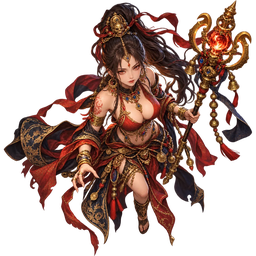
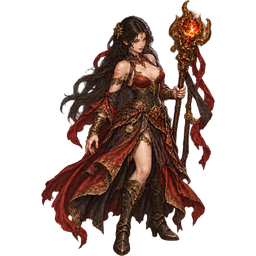
ソーサレスの通常と詠唱絵を現行の画風に統一

diff --git a/docs/reviews/2026-10-06-codex-sorceress-art.md b/docs/reviews/2026-10-06-codex-sorceress-art.md
@@ -1,0 +1,22 @@
+# ソーサレスの絵の描き直し
+
+依頼：元の方向性は維持し、現行クラスの画風とサイズ感に揃える。
+
+## 変更
+- `assets/player_sorceress.png` と `assets/player_sorceress_attack.png` を差し替え。黒髪・赤金の衣装・炎の杖を継承し、暗い革/布/古い金属を立体的に描いた。
+- 通常・詠唱を同じ人物の2ポーズとして生成。詠唱の横長火炎を除き、杖を斜め上に構える。火球は既存ゲームエフェクトが担当する。
+- 既存参照、能力、スキル、保存形式は変更しない。PR #119のDPSテストとその前提変更を継承。
+
+## 確認
+- 組み込み画像生成ツールを使用。透明2×1シートを `python3 tools/prepare_sprite.py ../generated_images/exec-1bd3fea8-f4f4-4204-8587-4274373d3e6c.png assets --grid 2x1 --names player_sorceress,player_sorceress_attack` で整形。
+- 両方RGBA/256×256、角のalpha=0。alpha>8の範囲は通常(41,0,215,256)、詠唱(52,0,204,256)。両方とも高さ256pxで横幅より縦に長く、横長の炎による縮小を解消。
+- 通常83,505バイト、詠唱81,862バイト。ネクロ/パラディンと64px・128pxで並べ、頭身・全身・輪郭・ポーズを目視確認。これは画像を並べた確認であり実ゲームのスクリーンショットではない。
+- `git diff --check` 成功。今回の環境にPlaywrightブラウザ実行ファイルがなく、ゲーム上の表示・実機FPSは未確認。画像のみの変更なので戦闘バランステストは追加していない。
+
+## 生成指示
+初回：元の通常/攻撃ソーサレスを人物と色の参考、ネクロ/パラディンを画風と頭身の参考に指定。黒髪・赤金・炎の杖を維持し、成人の頭身、3/4見下ろし・右寄りの向き、使い込まれた革/布/金属、小さくても読める輪郭、透明2×1シートの通常/詠唱を指示。横に広い詠唱姿勢が出たため、その点だけ再生成した。
+
+最終の指示文（初回画像を参照）：
+```
+Edit this transparent 2-cell sorceress sprite sheet. KEEP LEFT CHARACTER ENTIRELY UNCHANGED. Keep same woman, face, adult body, identical costume, hair, painterly dark fantasy texture. Modify only the RIGHT casting pose so it has a COMPACT TALL silhouette matching left full-body height and footprint. Right hand holds the SAME ornate fire staff diagonally UP toward upper-right, staff head near her own head height, NOT extended horizontally away. Right elbow bent near torso, free left hand projects magic in front of chest, knees slightly bent but feet same baseline and head same height as left. Skirt hangs mostly downward close to legs, no broad fabric wings. Entire right staff+body bbox TALLER THAN WIDE, max width 65% of its cell, height85-95%cell. A small contained flame in staff orb only, no projectile/effecthalo. Render a clean evenly split TWO equal square cells side-by-side 2:1 sheet, left idle and right compact casting. All pixels belong wholly to their cell; margin from outeredges. Fully transparent background, no text/floor/shadow. Both heads same size and both boot soles same baseline. This is necessary to prevent the game from shrinking the attacking body when fitting sprites to equal squares.
+```

diff --git a/docs/HANDOFF.md b/docs/HANDOFF.md
@@ -1,5 +1,9 @@
 # 引き継ぎメモ
 
+## 2026-10-06：ソーサレスの通常・攻撃絵を刷新
+- ユーザー「方向性はそのまま、今の路線とサイズ感を揃えて描き直し」。黒髪/赤金/炎の杖を継承し、暗い革と布/古い金属の立体感を追加。通常と詠唱を同じ人物の2ポーズとして生成。
+- 横長の火炎を絵に焼き込まず、詠唱の杖を斜め上へ構えて身体が縮む原因を減らす。既存2ファイルを差し替え、参照/戦闘数値/保存形式は変更なし。生成手順・サイズ確認はdocs/reviews/2026-10-06-codex-sorceress-art.md。
+
 ## 2026-10-06：拠点のDPSテスト
 - ユーザー「拠点モードにDPSテスト追加」。拠点の上部ボタンから開く。現在の構成を毎回コピーし、通常PvEエンジンをメモリStorageのdps-engine.htmlで隔離して動かす。元セーブ/本編リザルト/成長/報酬と分離。
 - 30/60/120秒・標的1/3/5体・防御力・通常/ボス・標的HP100/50/20%・本人HP100/50/30%・表示速度1/4。data/dps.js。静止/不死/攻撃なし、HP条件維持、撃破/被弾系は未発動。冷間開始なので毎回待ち時間/召喚を初期化。
@@ -265,7 +269,7 @@
 - **世界観にしばりはない**（持ち主の判断：「本質は人生をかけてアップデートして遊んでいくゲーム。しばりになるならタントラはなくていい」）。いまある敵・ボス・エリアはタントラ風、主人公の側は西洋のダークファンタジー。新しい敵・エリア・装備はタントラ風でなくてよい
 - 職業は「バーバリアン」。スキル名・装備名も西洋風
 - 2番目のボスは「阿修羅王」（信仰の対象になっている神は敵にしない）
-- ソーサレスの絵は、いったん保管していた女性の術者の絵（タントラ風）を使う（持ち主の判断）。スキル名と装備は西洋風
+- ソーサレスの絵は、元の女性術者の方向性（黒髪・赤金・炎の杖）を継承しつつ現行のダークファンタジー画風へ描き直す（2026-10-06 持ち主の判断）。スキル名と装備は西洋風
 - 職業のスキルは「しくみ（kind）」を共有する。新しい職業は `data/classes.js` に足すだけで作れる。ユニーク装備の説明は `{skill:しくみ}` で職業ごとのスキル名になる
 - 数値は全部 `data/` に置く。`src/` に数値を書かない
 - データの id（スキル・装備・特殊効果・ユニーク）は、名前を変えても変えない（セーブが壊れないように）。名前を変えたら、古いセーブの装備名を直す表 `data/items.js` の `renamedWords` に足す

diff --git a/docs/ART.md b/docs/ART.md
@@ -96,7 +96,7 @@ Game visual effect texture for a dark fantasy action RPG seen from a top-down vi
 ポーズ違いは、顔や装備が少し変わってしまいやすいです。見本と並べて、同じキャラに見えないものは作り直してください。
 
 ### ソーサレス（2つ目の職業）のアイコン
-主人公の絵は、保管していた女性の術者の絵を使っています（`assets/player_sorceress.png`。持ち主の判断で、いったんこの絵）。
+主人公の通常・攻撃絵は2026-10-06に描き直し。元の黒髪・赤金の衣装・炎の杖を残し、他職業に合わせた立体的なダークファンタジーの質感へ。`assets/player_sorceress.png`・`player_sorceress_attack.png`。詳細と指示文は `docs/reviews/2026-10-06-codex-sorceress-art.md`。
 
 **スキル（3列×2行）** → `--grid 3x2 --names sorc_nova,sorc_shield,sorc_chain,sorc_meteor,sorc_haste,sorc_freeze`、置いたら `data/classes.js` の `sorceress.skillIcons` に書く
 ```
